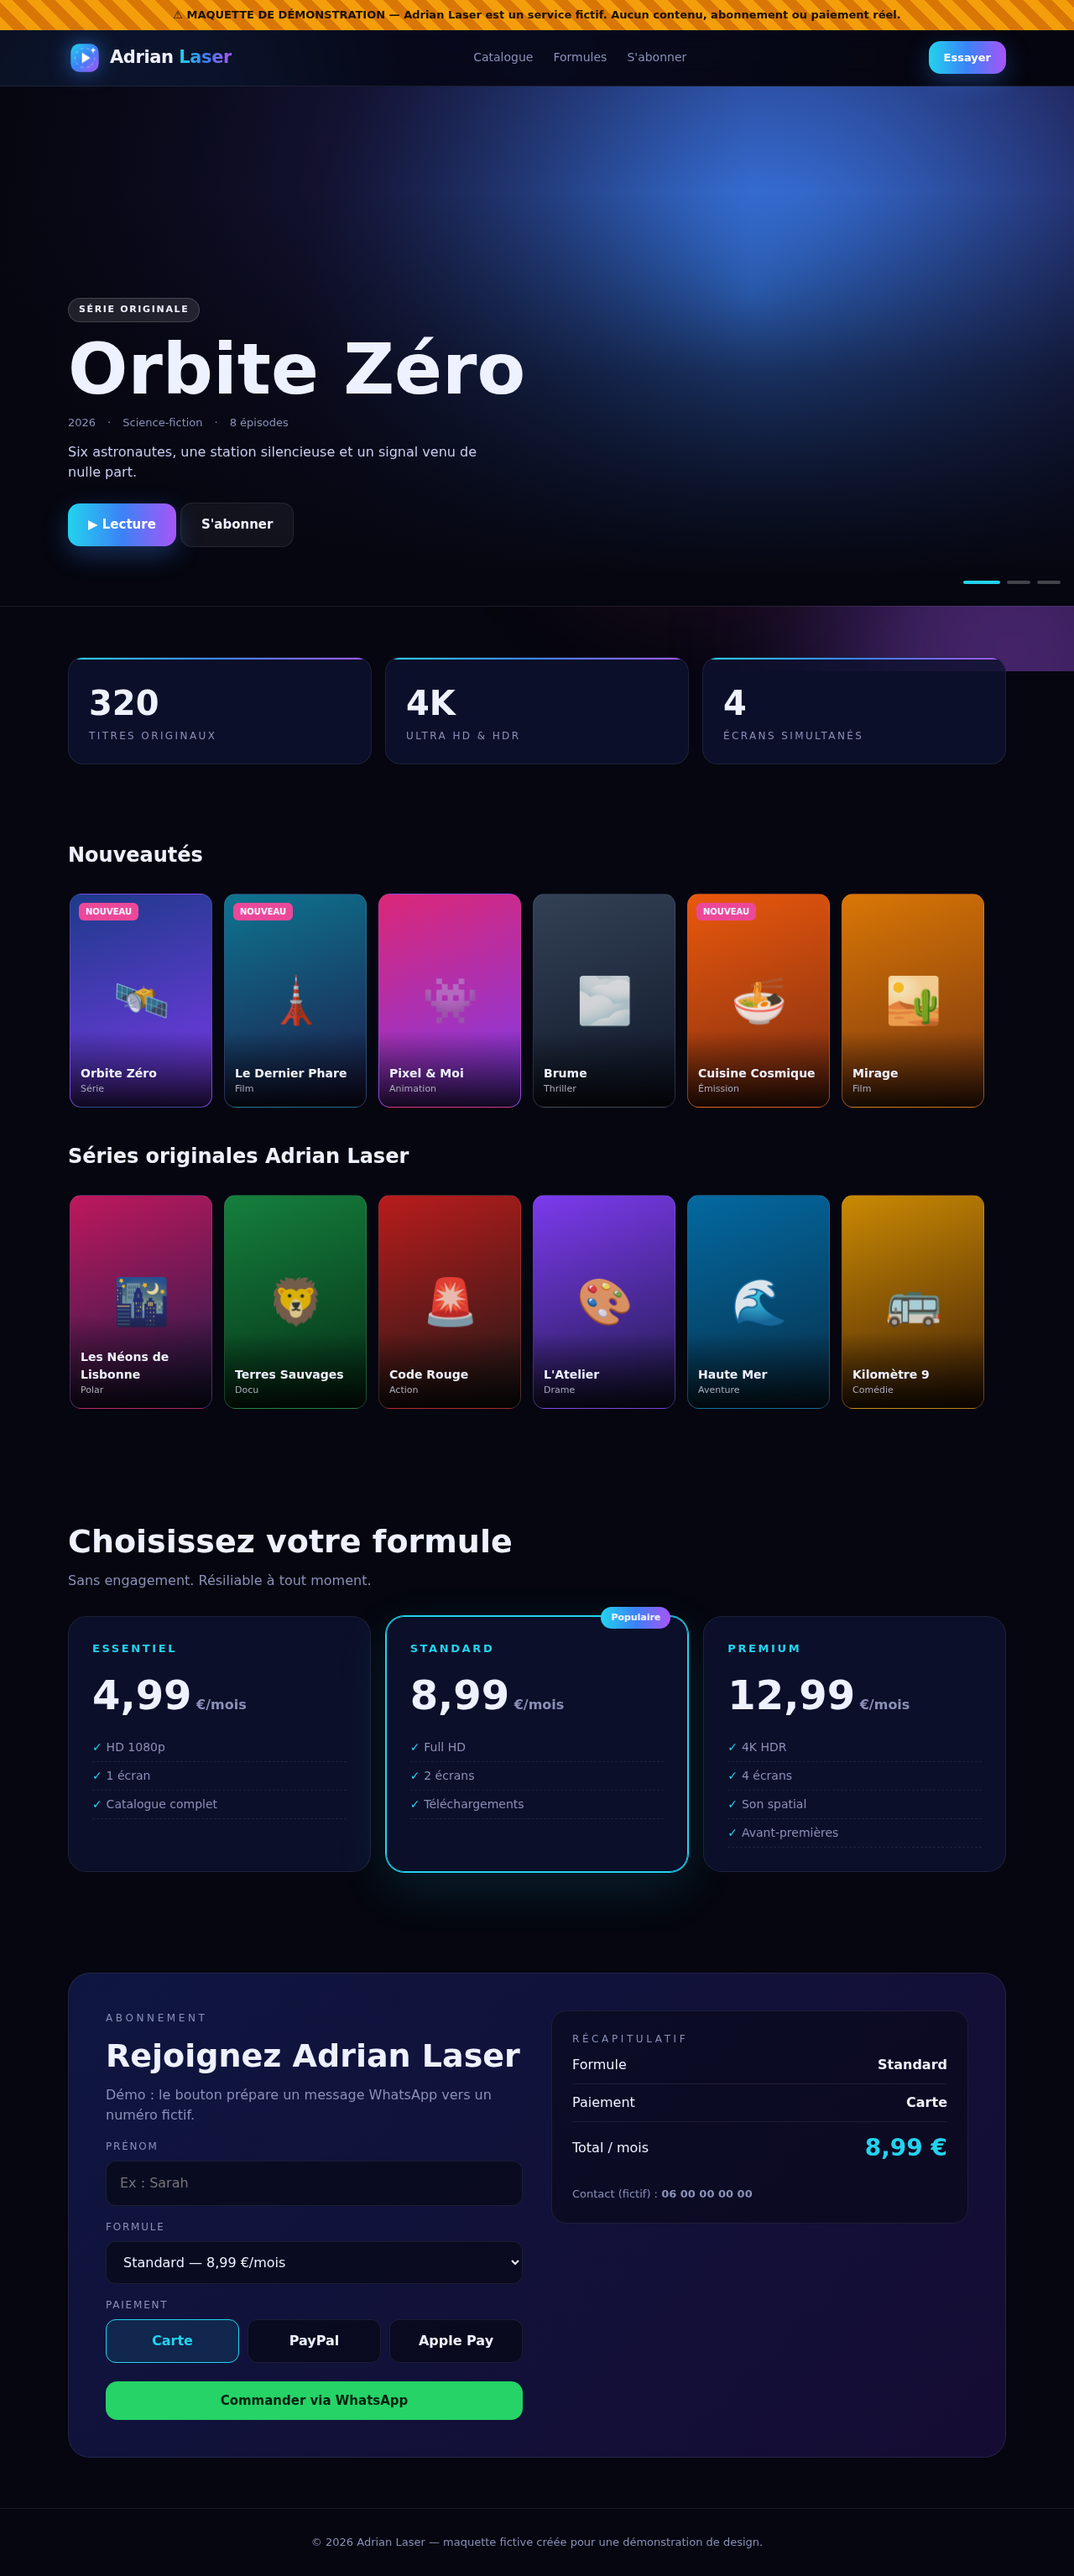
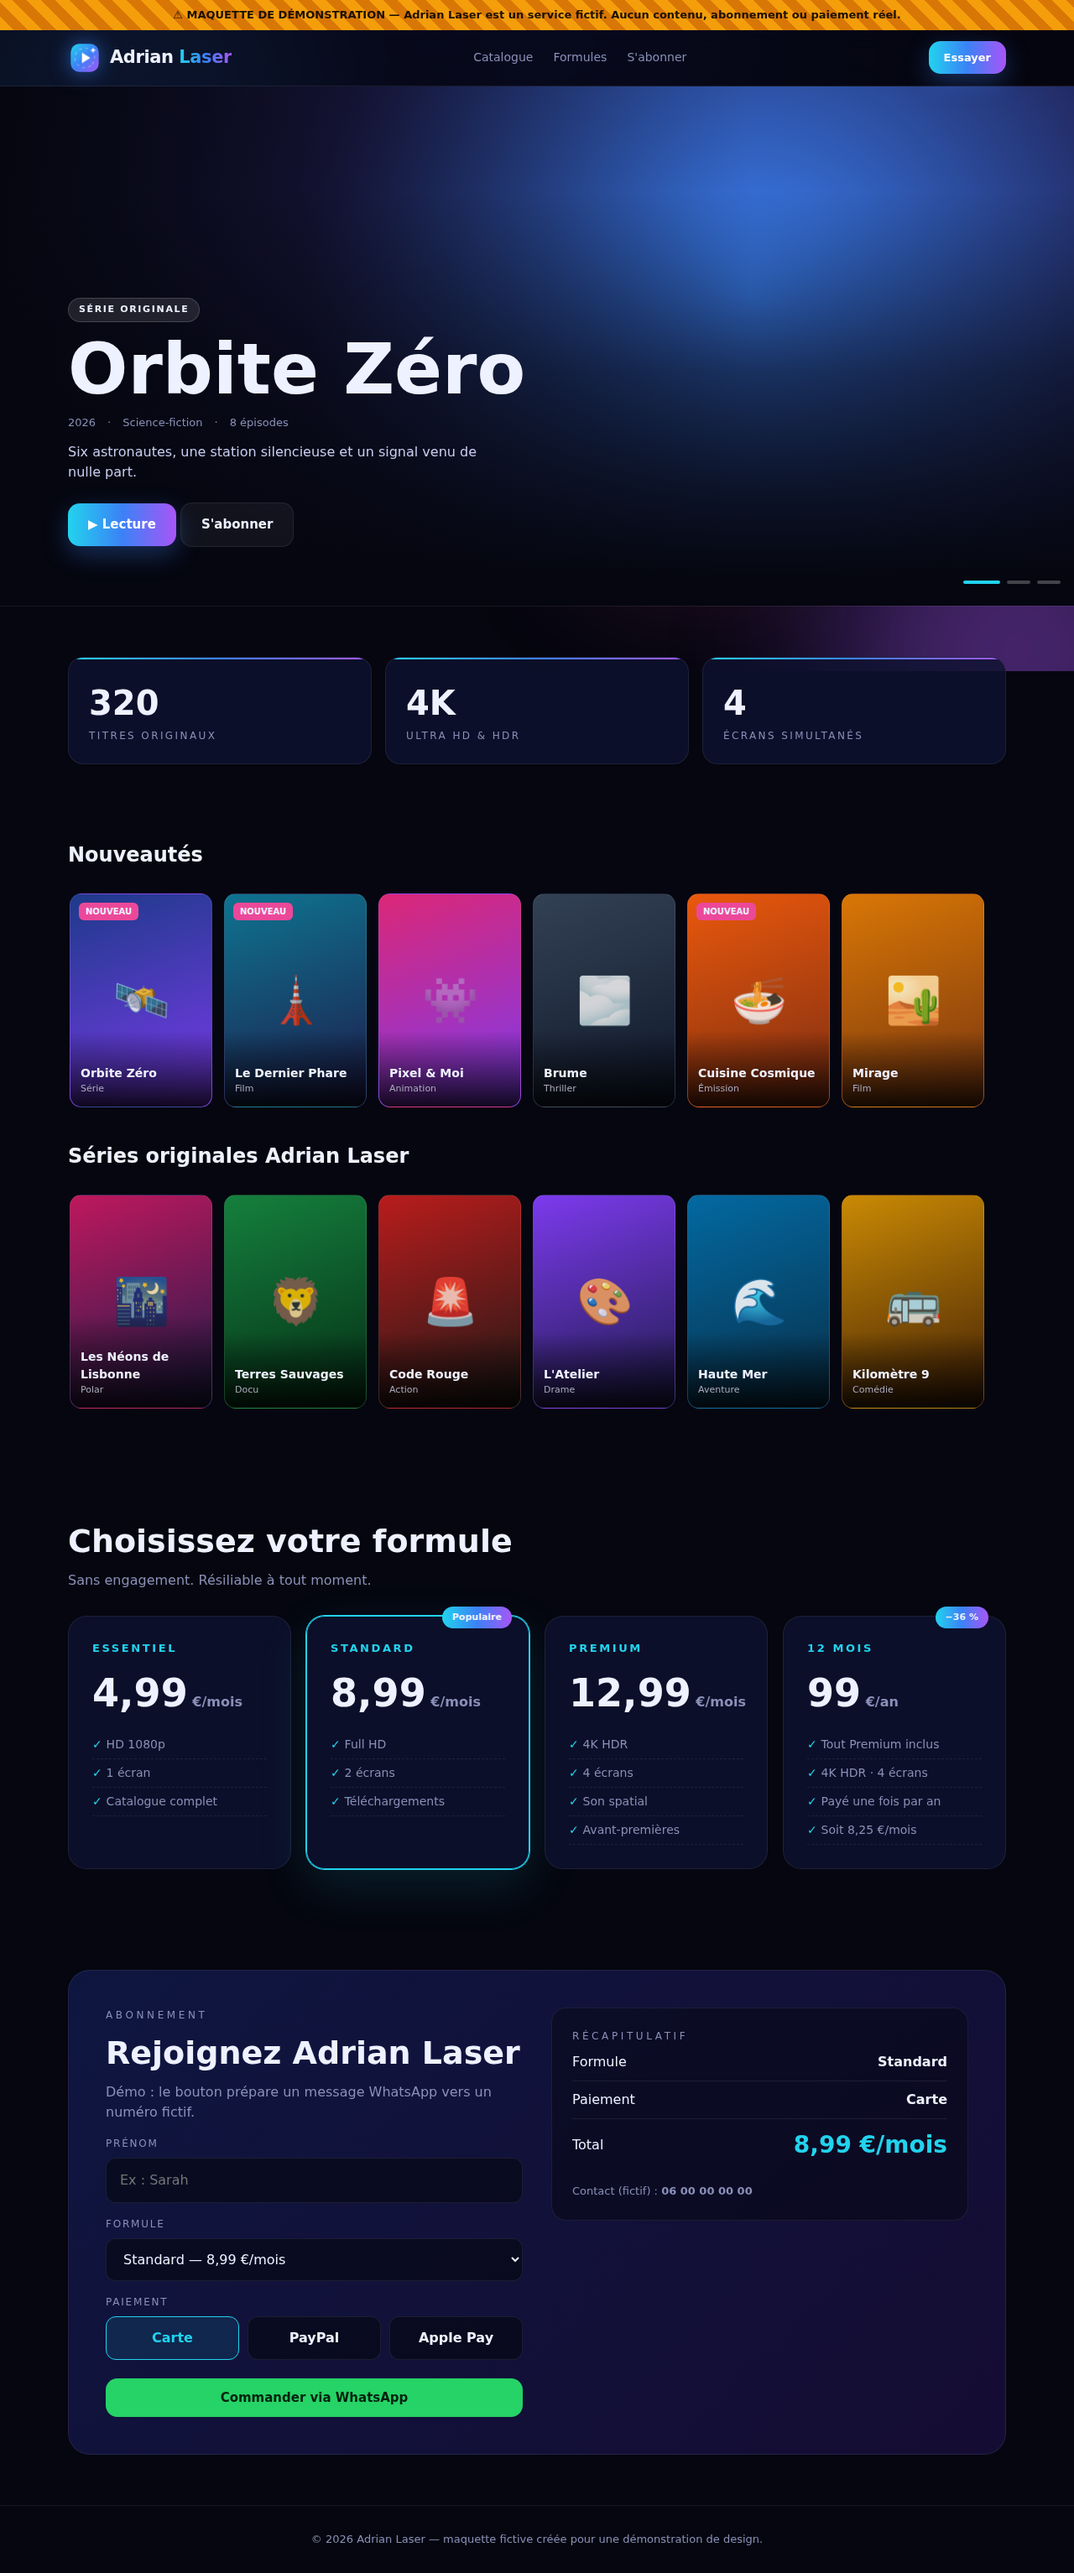
Add fictional 12-month plan to Adrian Laser demo
Claude-Session: https://claude.ai/code/session_01DEdCqQpZJhvjZt6hZpQdjP

diff --git a/demo/index.html b/demo/index.html
@@ -92,7 +92,7 @@
   .plan.sel{border-color:var(--cyan);box-shadow:0 0 0 1px var(--cyan),0 20px 60px #22d3ee22}
   .plan .tag{position:absolute;top:-12px;right:20px;background:var(--grad);font-size:11px;font-weight:700;padding:5px 12px;border-radius:99px}
   .plan h3{font-size:13px;letter-spacing:.2em;color:var(--cyan);text-transform:uppercase}
-  .plan .price{font-size:48px;font-weight:900;margin:10px 0}
+  .plan .price{font-size:clamp(36px,3.6vw,48px);font-weight:900;margin:10px 0;white-space:nowrap}
   .plan .price small{font-size:16px;color:var(--mut)}
   .plan ul{list-style:none;font-size:14px;color:var(--mut)}
   .plan li{padding:6px 0;border-bottom:1px dashed var(--line)}
@@ -186,7 +186,7 @@
         <p class="eyebrow">Récapitulatif</p>
         <div class="r"><span>Formule</span><b id="sPlan"></b></div>
         <div class="r"><span>Paiement</span><b id="sPay"></b></div>
-        <div class="r" style="border:0;align-items:center"><span>Total / mois</span><span class="tot" id="sTot"></span></div>
+        <div class="r" style="border:0;align-items:center"><span>Total</span><span class="tot" id="sTot"></span></div>
         <p class="muted" style="font-size:13px;margin-top:14px">Contact (fictif) : <b id="phone"></b></p>
       </div>
     </div>
@@ -204,7 +204,8 @@ const CONFIG = {
   plans: [
     { id:"ess", name:"Essentiel", price:"4,99", features:["HD 1080p","1 écran","Catalogue complet"] },
     { id:"std", name:"Standard",  price:"8,99", features:["Full HD","2 écrans","Téléchargements"], tag:"Populaire" },
-    { id:"pre", name:"Premium",   price:"12,99", features:["4K HDR","4 écrans","Son spatial","Avant-premières"] }
+    { id:"pre", name:"Premium",   price:"12,99", features:["4K HDR","4 écrans","Son spatial","Avant-premières"] },
+    { id:"an",  name:"12 mois",   price:"99", unit:"an", features:["Tout Premium inclus","4K HDR · 4 écrans","Payé une fois par an","Soit 8,25 €/mois"], tag:"−36 %" }
   ]
 };
 const FEATURED = [
@@ -254,19 +255,19 @@ $("#plans").innerHTML = CONFIG.plans.map(p=>`
   <div class="plan rv" data-id="${p.id}">
     ${p.tag?`<span class="tag">${p.tag}</span>`:""}
     <h3>${p.name}</h3>
-    <div class="price">${p.price}<small> €/mois</small></div>
+    <div class="price">${p.price}<small> €/${p.unit||"mois"}</small></div>
     <ul>${p.features.map(f=>`<li>${f}</li>`).join("")}</ul>
   </div>`).join("");
-$("#plan").innerHTML = CONFIG.plans.map(p=>`<option value="${p.id}">${p.name} — ${p.price} €/mois</option>`).join("");
+$("#plan").innerHTML = CONFIG.plans.map(p=>`<option value="${p.id}">${p.name} — ${p.price} €/${p.unit||"mois"}</option>`).join("");
 function render(){
   document.querySelectorAll(".plan").forEach(el=>el.classList.toggle("sel",el.dataset.id===selPlan.id));
-  $("#plan").value=selPlan.id; $("#sPlan").textContent=selPlan.name; $("#sPay").textContent=selPay; $("#sTot").textContent=selPlan.price+" €";
+  $("#plan").value=selPlan.id; $("#sPlan").textContent=selPlan.name; $("#sPay").textContent=selPay; $("#sTot").textContent=selPlan.price+" €/"+(selPlan.unit||"mois");
 }
 document.querySelectorAll(".plan").forEach(el=>el.onclick=()=>{selPlan=CONFIG.plans.find(p=>p.id===el.dataset.id);render();$("#abonnement").scrollIntoView();});
 $("#plan").onchange=e=>{selPlan=CONFIG.plans.find(p=>p.id===e.target.value);render();};
 $("#pay").onclick=e=>{const b=e.target.closest("button");if(!b)return;document.querySelectorAll("#pay button").forEach(x=>x.classList.toggle("on",x===b));selPay=b.dataset.v;render();};
 $("#form").onsubmit=e=>{e.preventDefault();
-  window.open(wa(`[DÉMO Adrian Laser]\nPrénom : ${$("#name").value.trim()}\nFormule : ${selPlan.name} (${selPlan.price} €/mois)\nPaiement : ${selPay}`),"_blank");};
+  window.open(wa(`[DÉMO Adrian Laser]\nPrénom : ${$("#name").value.trim()}\nFormule : ${selPlan.name} (${selPlan.price} €/${selPlan.unit||"mois"})\nPaiement : ${selPay}`),"_blank");};
 $("#phone").textContent=CONFIG.phoneDisplay; $("#y").textContent=new Date().getFullYear(); render();
 
 // Animations au scroll + compteurs
